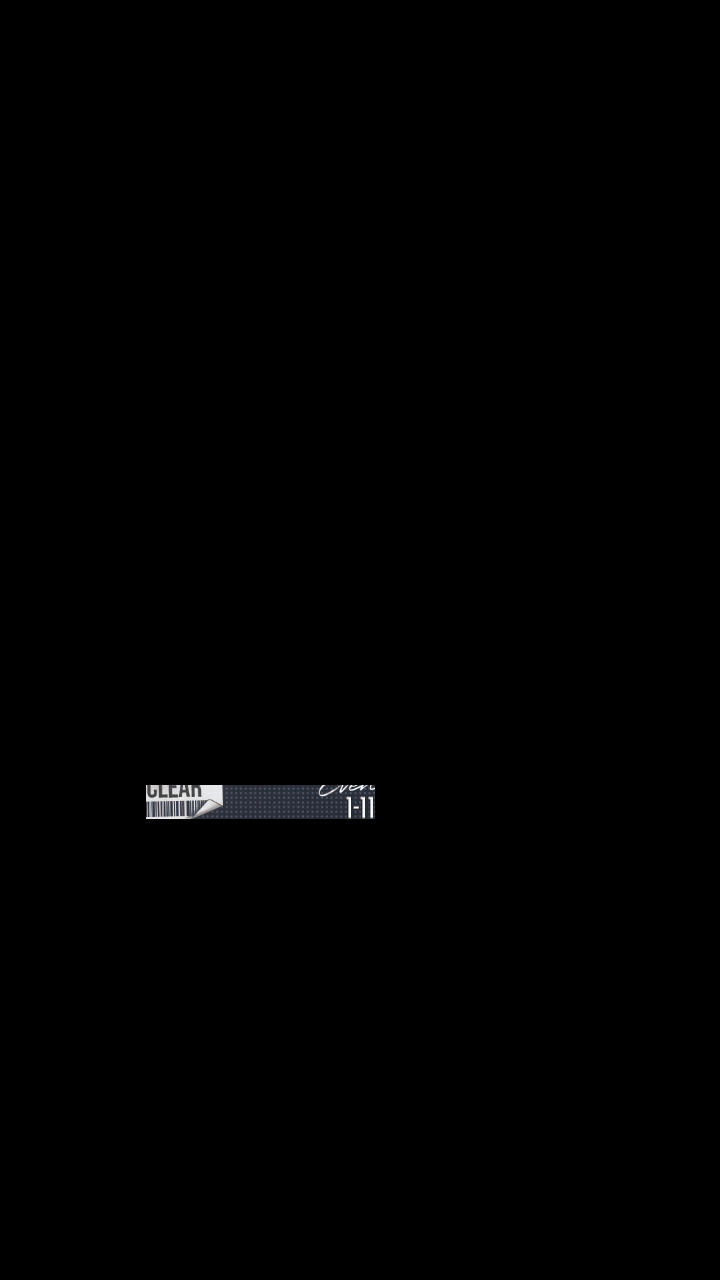
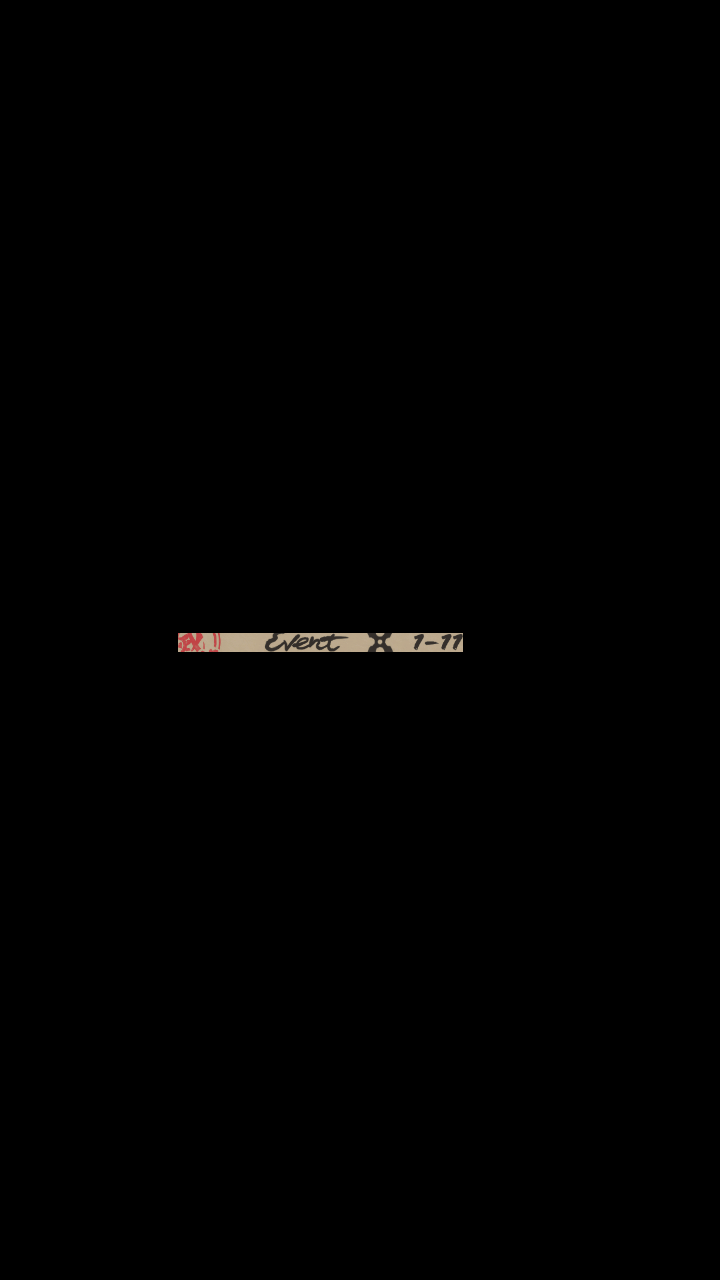
更新剧情活动GO! NINJA THIEF! 困难扫荡

Changed region(s): [[0.2444, 0.4688, 0.6417, 0.5312], [0.1833, 0.5938, 0.5194, 0.6562]]

diff --git a/module/event/event_20251016/assets.py b/module/event/event_20251016/assets.py
@@ -17,10 +17,10 @@ SHOP = Button(area={'zh-CN': (104, 1098, 136, 1126)}, color={'zh-CN': (114, 109,
 SHOP_ITEM_LOAD_CHECK = Button(area={'zh-CN': (578, 1030, 603, 1052)}, color={'zh-CN': (77, 86, 69)}, button={'zh-CN': (578, 1030, 603, 1052)}, file={'zh-CN': './assets/zh-CN/event_dated/event_20251016/SHOP_ITEM_LOAD_CHECK.png'})
 SKIP = Button(area={'zh-CN': (616, 22, 671, 41)}, color={'zh-CN': (133, 134, 133)}, button={'zh-CN': (616, 22, 671, 41)}, file={'zh-CN': './assets/zh-CN/event_dated/event_20251016/SKIP.png'})
 STORY_1_CHECK = Button(area={'zh-CN': (451, 885, 518, 910)}, color={'zh-CN': (151, 112, 102)}, button={'zh-CN': (451, 885, 518, 910)}, file={'zh-CN': './assets/zh-CN/event_dated/event_20251016/STORY_1_CHECK.png'})
-STORY_1_HARD = Button(area={'zh-CN': (615, 1160, 665, 1233)}, color={'zh-CN': (158, 81, 127)}, button={'zh-CN': (615, 1160, 665, 1233)}, file={'zh-CN': './assets/zh-CN/event_dated/event_20251016/STORY_1_HARD.png'})
-STORY_1_HARD_HIDDEN = Button(area={'zh-CN': (612, 1157, 666, 1238)}, color={'zh-CN': (50, 52, 52)}, button={'zh-CN': (612, 1157, 666, 1238)}, file={'zh-CN': './assets/zh-CN/event_dated/event_20251016/STORY_1_HARD_HIDDEN.png'})
+STORY_1_HARD = Button(area={'zh-CN': (568, 1160, 644, 1182)}, color={'zh-CN': (151, 94, 77)}, button={'zh-CN': (568, 1160, 644, 1182)}, file={'zh-CN': './assets/zh-CN/event_dated/event_20251016/STORY_1_HARD.png'})
+STORY_1_HARD_HIDDEN = Button(area={'zh-CN': (606, 1155, 654, 1169)}, color={'zh-CN': (51, 39, 30)}, button={'zh-CN': (606, 1155, 654, 1169)}, file={'zh-CN': './assets/zh-CN/event_dated/event_20251016/STORY_1_HARD_HIDDEN.png'})
 STORY_1_HARD_LOCKED = Button(area={'zh-CN': (614, 1151, 651, 1170)}, color={'zh-CN': (104, 106, 111)}, button={'zh-CN': (614, 1151, 651, 1170)}, file={'zh-CN': './assets/zh-CN/event_dated/event_20251016/STORY_1_HARD_LOCKED.png'})
-STORY_1_HARD_STAGE_11 = Button(area={'zh-CN': (146, 785, 375, 819)}, color={'zh-CN': (90, 93, 102)}, button={'zh-CN': (146, 785, 375, 819)}, file={'zh-CN': './assets/zh-CN/event_dated/event_20251016/STORY_1_HARD_STAGE_11.png'})
+STORY_1_HARD_STAGE_11 = Button(area={'zh-CN': (178, 633, 463, 652)}, color={'zh-CN': (159, 136, 115)}, button={'zh-CN': (178, 633, 463, 652)}, file={'zh-CN': './assets/zh-CN/event_dated/event_20251016/STORY_1_HARD_STAGE_11.png'})
 STORY_1_HARD_UNLOCK = Button(area={'zh-CN': (343, 733, 438, 753)}, color={'zh-CN': (157, 161, 163)}, button={'zh-CN': (343, 733, 438, 753)}, file={'zh-CN': './assets/zh-CN/event_dated/event_20251016/STORY_1_HARD_UNLOCK.png'})
 STORY_1_NORMAL = Button(area={'zh-CN': (411, 1176, 483, 1201)}, color={'zh-CN': (92, 83, 74)}, button={'zh-CN': (411, 1176, 483, 1201)}, file={'zh-CN': './assets/zh-CN/event_dated/event_20251016/STORY_1_NORMAL.png'})
 STORY_1_NORMAL_STAGE_11 = Button(area={'zh-CN': (193, 887, 377, 912)}, color={'zh-CN': (111, 90, 98)}, button={'zh-CN': (193, 887, 377, 912)}, file={'zh-CN': './assets/zh-CN/event_dated/event_20251016/STORY_1_NORMAL_STAGE_11.png'})

diff --git a/module/config/manual_config.py b/module/config/manual_config.py
@@ -106,7 +106,7 @@ class ManualConfig:
             "event_type": 2,
             "mini_game": False,
             "story_part": "Story_1",  # Story_1, Story_2
-            "story_difficulty": "Normal"  # Normal, Hard
+            "story_difficulty": "Hard"  # Normal, Hard
         },
         {
             "event_id": "event_20250904",
